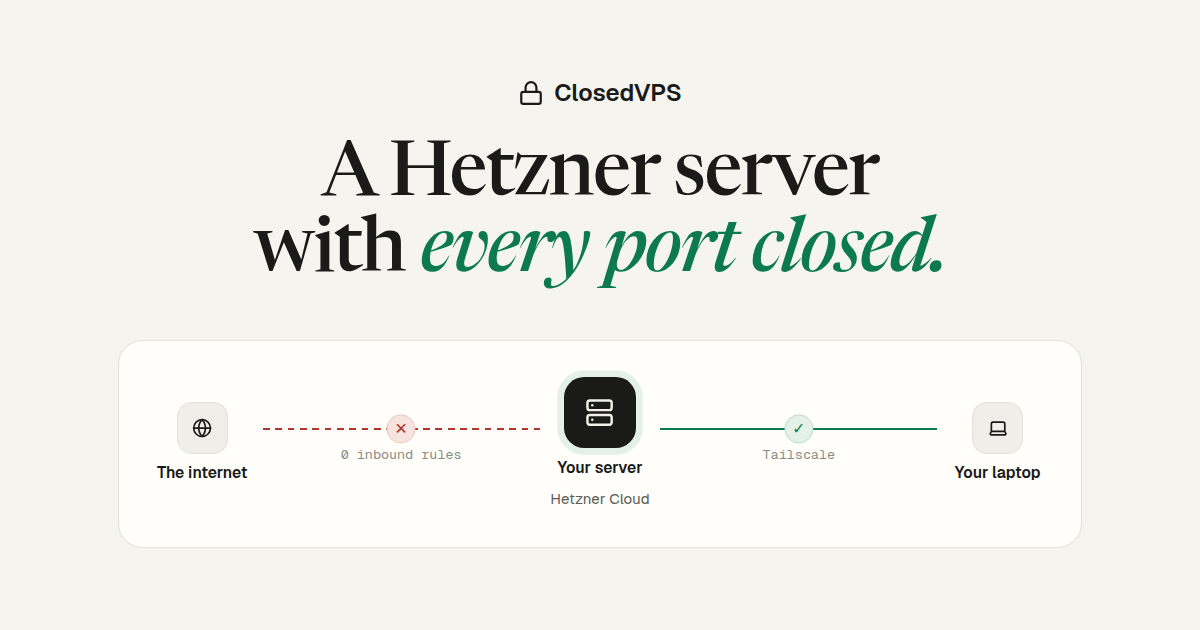
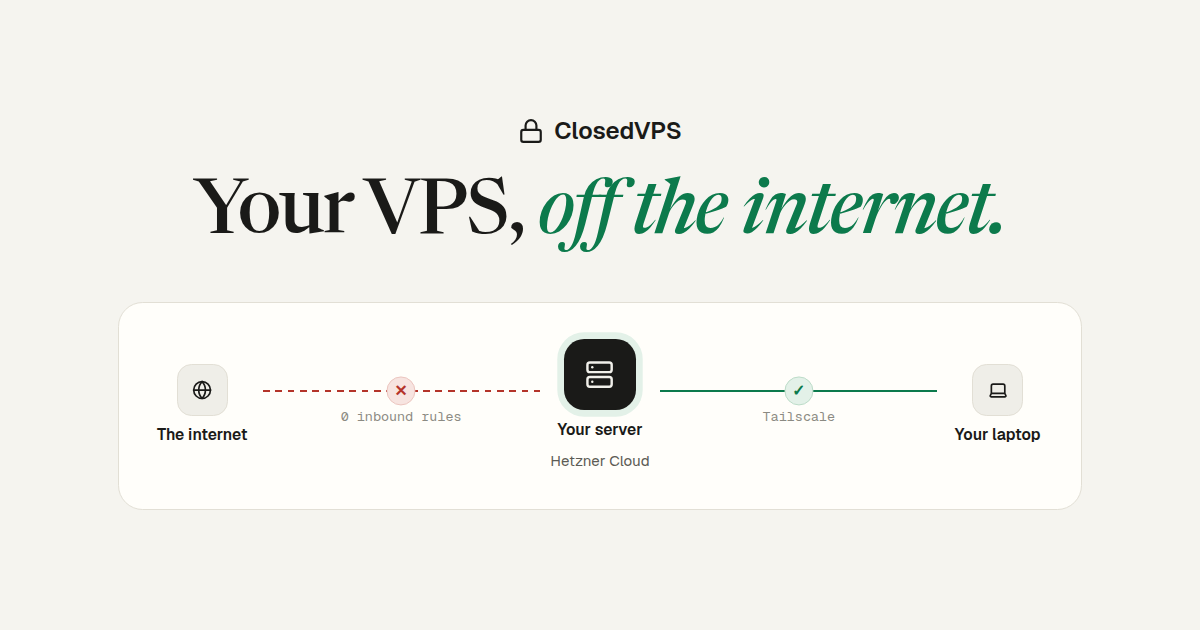
site: Lead the home page with the closed server, and redraw the link preview to match

diff --git a/src/body/index.html b/src/body/index.html
@@ -2,14 +2,14 @@
 
 <section class="hero">
   <div class="eyebrow">A free CLI for Hetzner Cloud</div>
-  <h1>A Hetzner server with <em>every port closed.</em></h1>
-  <p class="lede">ClosedVPS buys it from your own computer. <b>When Hetzner is sold out, it checks every minute</b> and buys the first server on your list that comes into stock, up to the price you set. You get in over Tailscale.</p>
+  <h1>Your VPS, <em>off the internet.</em></h1>
+  <p class="lede">Only your own devices can reach it, from the first boot.</p>
   <div class="install">
     <div class="tabs" role="tablist" aria-label="Your computer"><button role="tab" data-os="unix" aria-selected="true">macOS and Linux</button><button role="tab" data-os="win" aria-selected="false">Windows</button></div>
     <div data-cmd="unix"><div class="cmd"><code><span class="dim">$</span> curl -fsSL https://closedvps.com/install.sh | sh</code><button class="copy" data-copy="curl -fsSL https://closedvps.com/install.sh | sh" aria-label="Copy install command"><svg class="i cp-i" aria-hidden="true" xmlns="http://www.w3.org/2000/svg" width="24" height="24" viewBox="0 0 24 24" fill="none" stroke="currentColor" stroke-width="2" stroke-linecap="round" stroke-linejoin="round" ><rect width="14" height="14" x="8" y="8" rx="2" ry="2" /><path d="M4 16c-1.1 0-2-.9-2-2V4c0-1.1.9-2 2-2h10c1.1 0 2 .9 2 2" /></svg><svg class="i ok-i" aria-hidden="true" xmlns="http://www.w3.org/2000/svg" width="24" height="24" viewBox="0 0 24 24" fill="none" stroke="currentColor" stroke-width="2" stroke-linecap="round" stroke-linejoin="round" ><path d="M20 6 9 17l-5-5" /></svg></button></div></div>
     <div data-cmd="win" hidden><div class="cmd"><code><span class="dim">PS&gt;</span> irm https://closedvps.com/install.ps1 | iex</code><button class="copy" data-copy="irm https://closedvps.com/install.ps1 | iex" aria-label="Copy install command"><svg class="i cp-i" aria-hidden="true" xmlns="http://www.w3.org/2000/svg" width="24" height="24" viewBox="0 0 24 24" fill="none" stroke="currentColor" stroke-width="2" stroke-linecap="round" stroke-linejoin="round" ><rect width="14" height="14" x="8" y="8" rx="2" ry="2" /><path d="M4 16c-1.1 0-2-.9-2-2V4c0-1.1.9-2 2-2h10c1.1 0 2 .9 2 2" /></svg><svg class="i ok-i" aria-hidden="true" xmlns="http://www.w3.org/2000/svg" width="24" height="24" viewBox="0 0 24 24" fill="none" stroke="currentColor" stroke-width="2" stroke-linecap="round" stroke-linejoin="round" ><path d="M20 6 9 17l-5-5" /></svg></button></div></div>
   </div>
-  <div class="facts"><span>Open source, MIT</span><span>macOS, Linux, Windows</span><span>No ClosedVPS account</span><span>Your token only goes to Hetzner</span></div>
+  <div class="facts"><span>Open source</span><span>Runs on your computer</span><span>Needs Tailscale</span><span>Catches restocks</span></div>
 </section>
 
 <div class="map" role="img" aria-label="The internet is blocked by a Hetzner firewall with no inbound rules; your laptop reaches the server over Tailscale">
@@ -99,7 +99,7 @@
   <h2>Before you start</h2>
   <p class="sub">The first run asks what the server is for and uses defaults for the rest, shown before you pay; <code>closedvps setup</code> saves your own. <code>closedvps create -n --show-setup</code> prints the whole first-boot setup, and the <a href="https://github.com/tulayha/closedvps#quick-start">README</a> lists every option.</p>
   <ul class="needs">
-    <li><div class="ic"><svg class="i" aria-hidden="true" xmlns="http://www.w3.org/2000/svg" width="24" height="24" viewBox="0 0 24 24" fill="none" stroke="currentColor" stroke-width="2" stroke-linecap="round" stroke-linejoin="round" ><path d="M2.586 17.414A2 2 0 0 0 2 18.828V21a1 1 0 0 0 1 1h3a1 1 0 0 0 1-1v-1a1 1 0 0 1 1-1h1a1 1 0 0 0 1-1v-1a1 1 0 0 1 1-1h.172a2 2 0 0 0 1.414-.586l.814-.814a6.5 6.5 0 1 0-4-4z" /><circle cx="16.5" cy="7.5" r=".5" fill="currentColor" /></svg></div><b>A Hetzner API token</b><span>Read &amp; Write, from your project in the Hetzner Console.</span><span class="how"><a href="https://docs.hetzner.com/cloud/api/getting-started/generating-api-token/">How to make one</a></span></li>
+    <li><div class="ic"><svg class="i" aria-hidden="true" xmlns="http://www.w3.org/2000/svg" width="24" height="24" viewBox="0 0 24 24" fill="none" stroke="currentColor" stroke-width="2" stroke-linecap="round" stroke-linejoin="round" ><path d="M2.586 17.414A2 2 0 0 0 2 18.828V21a1 1 0 0 0 1 1h3a1 1 0 0 0 1-1v-1a1 1 0 0 1 1-1h1a1 1 0 0 0 1-1v-1a1 1 0 0 1 1-1h.172a2 2 0 0 0 1.414-.586l.814-.814a6.5 6.5 0 1 0-4-4z" /><circle cx="16.5" cy="7.5" r=".5" fill="currentColor" /></svg></div><b>A Hetzner API token</b><span>Read &amp; Write, from your project in the Hetzner Console. It only ever goes to Hetzner.</span><span class="how"><a href="https://docs.hetzner.com/cloud/api/getting-started/generating-api-token/">How to make one</a></span></li>
     <li><div class="ic"><svg class="i" aria-hidden="true" xmlns="http://www.w3.org/2000/svg" width="24" height="24" viewBox="0 0 24 24" fill="none" stroke="currentColor" stroke-width="2" stroke-linecap="round" stroke-linejoin="round" ><rect x="16" y="16" width="6" height="6" rx="1" /><rect x="2" y="16" width="6" height="6" rx="1" /><rect x="9" y="2" width="6" height="6" rx="1" /><path d="M5 16v-3a1 1 0 0 1 1-1h12a1 1 0 0 1 1 1v3" /><path d="M12 12V8" /></svg></div><b>Tailscale</b><span>Running on this computer. Each run asks for a one-off auth key with the tag <code>tag:closedvps</code>.</span><span class="how"><a href="https://tailscale.com/download">Download</a><a href="/tailscale">Set up the tag</a></span></li>
     <li><div class="ic"><svg class="i" aria-hidden="true" xmlns="http://www.w3.org/2000/svg" width="24" height="24" viewBox="0 0 24 24" fill="none" stroke="currentColor" stroke-width="2" stroke-linecap="round" stroke-linejoin="round" ><polyline points="4 17 10 11 4 5" /><line x1="12" x2="20" y1="19" y2="19" /></svg></div><b>An SSH key</b><span>Found on this computer. No key yet? <code>ssh-keygen -t ed25519</code></span></li>
   </ul>

diff --git a/src/site.js b/src/site.js
@@ -8,10 +8,10 @@ export const org = { "@type": "Organization", name: "ClosedVPS", url: `${site}/`
 export const pages = [
   {
     path: "/",
-    title: "ClosedVPS: a Hetzner VPS even when it's sold out, no open ports",
+    title: "ClosedVPS: a Hetzner VPS off the internet, even when it's sold out",
     name: "ClosedVPS",
     description:
-      "Hetzner CX23 not available? This free CLI checks every minute, buys within your price cap and sets the VPS up with no open ports and SSH over Tailscale.",
+      "A free CLI that buys a Hetzner VPS with every port closed and SSH over Tailscale. When the CX23 is sold out, it checks every minute and buys within your price cap.",
     llms: "what it does, what you need, the stock retry, what the server gets, recovery when Tailscale breaks",
     published: "2026-11-19",
     modified: "2026-11-20",
